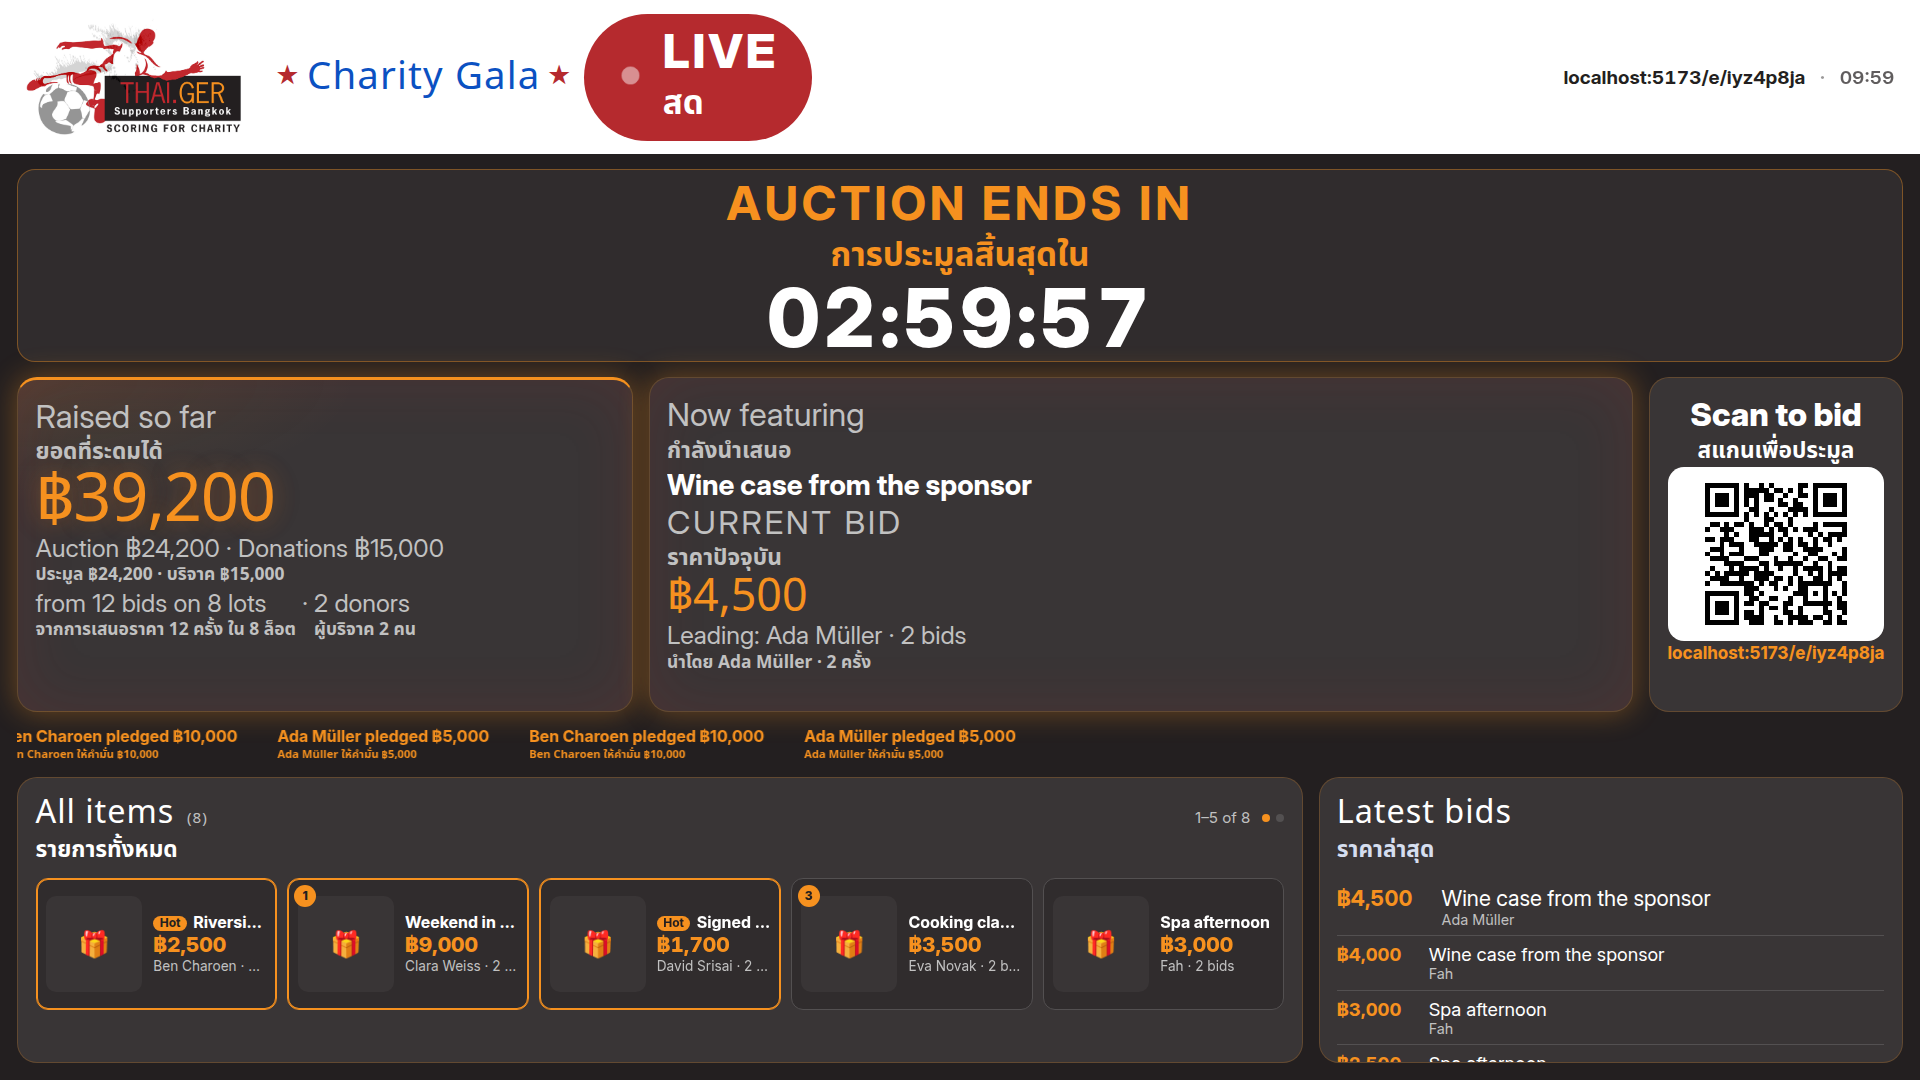
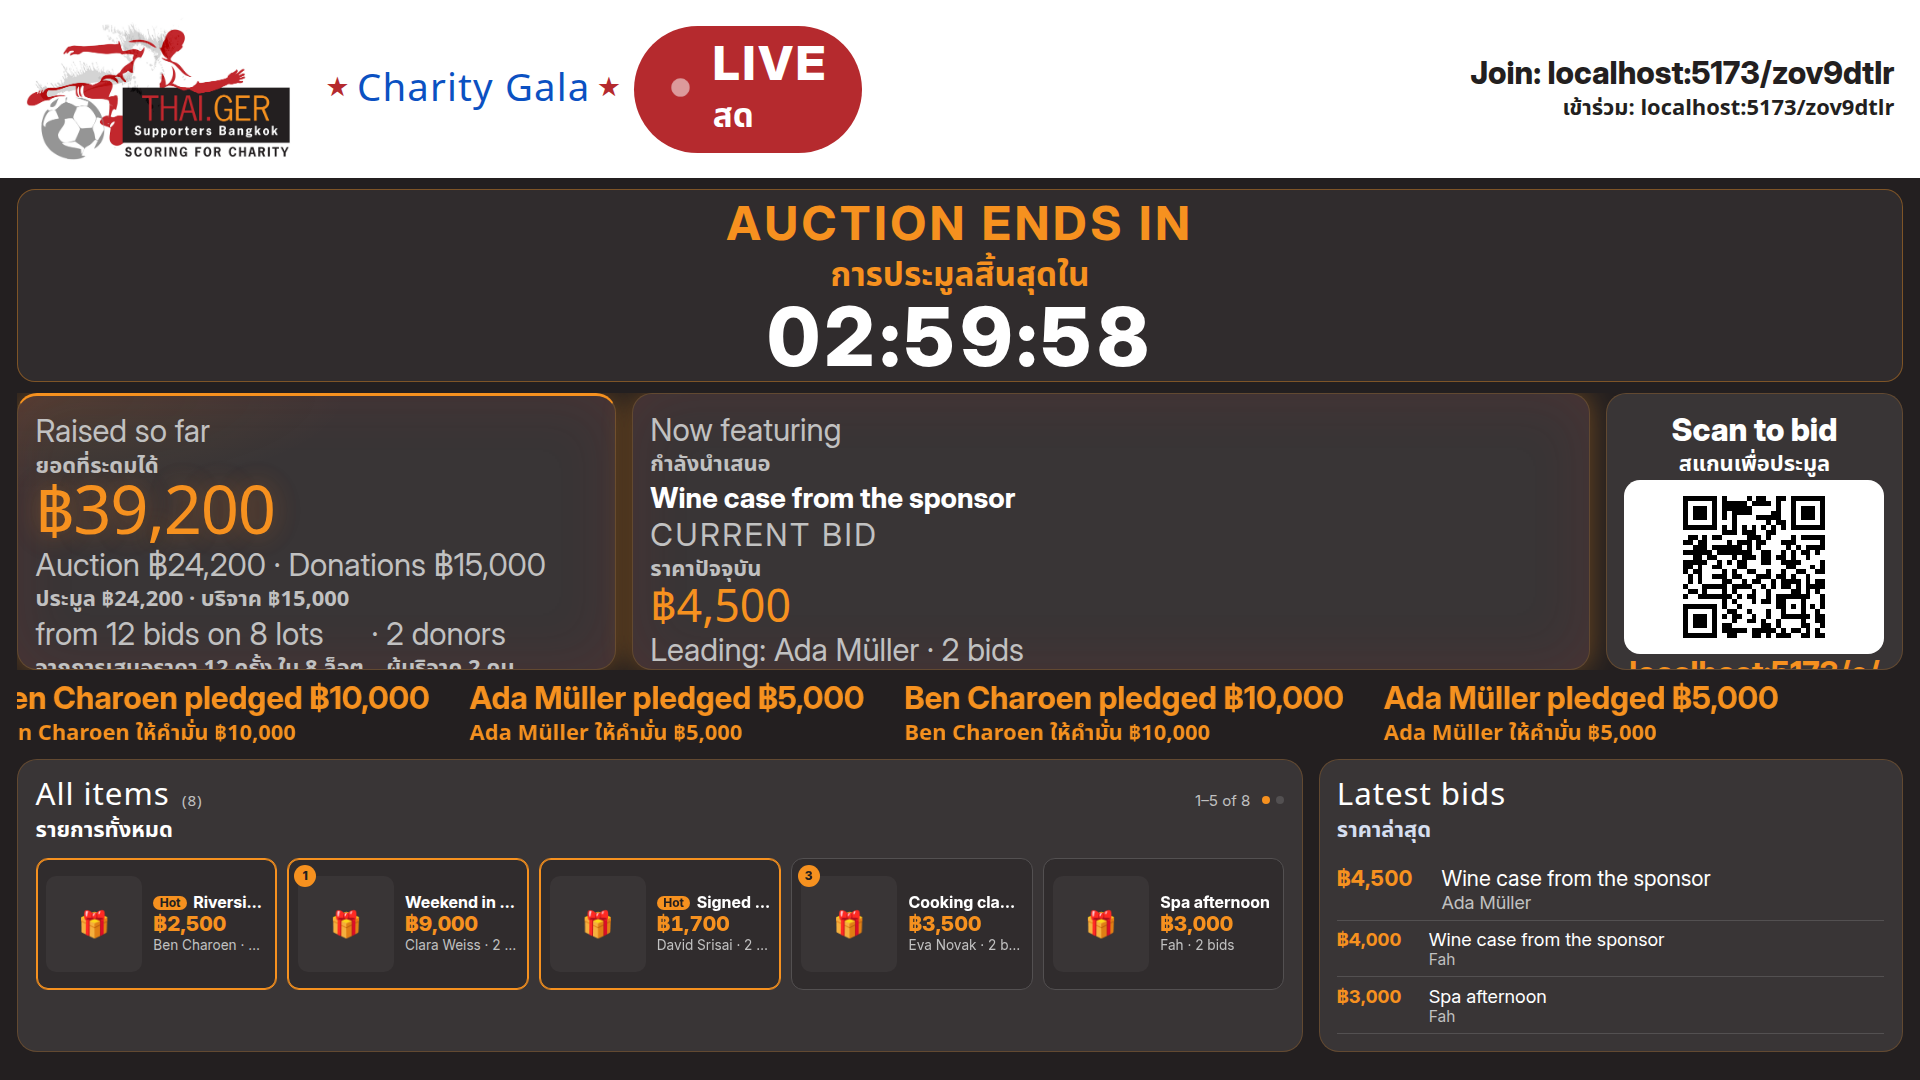
Refresh the projector review shots for the fitted big screen.
The notes now match the 151px mark, the readable join line, and a closed night that leads with Top lot and the results grid.

Changed region(s): [[0.0, 0.0, 1.0, 1.0], [0.5625, 0.825, 0.6562, 0.9167]]

diff --git a/docs/ux-review.md b/docs/ux-review.md
@@ -68,4 +68,4 @@ The bid card already had the centred amount, −/+, the leader, and a filled `Bi
 
 ## Checked
 
-No console errors on the seeded pass. Web typecheck, web tests, API tests and the web build were run on this branch. Thai at 1080p is 33.3px. The logo aspect on the guest header is 64px tall by 114px wide, which is 1280×719. On the projector the same file is 123px tall at 1080p (79px at 720p), on the white band with clear space. Live is a red pill; closed is solid ink. The last minute is one centre timer, and the closed screen leads with thank-you and the total.
+No console errors on the seeded pass. Web typecheck, web tests and the web build were run on this branch. Thai at 1080p is 33.3px on headlines and 70% of every secondary English line (21.9px under a 31.3px label). The logo aspect on the guest header is 64px tall by 114px wide, which is 1280×719. On the projector the same file is 151px tall at 1080p (96px at 720p), about 85% of the white band, with clear space above and below. The right of that band reads “Join: host/code” at 31px (24px at 720p), Thai underneath. The screen is a 100vh grid: lower rows are whole or left out. A closed night says Top lot / Sold for, hides Latest bids, and gives that width to Results. Closed early is a 31px note. Live is a red pill; closed is solid ink. The last minute is one centre timer, and the closed screen leads with thank-you and the total.
